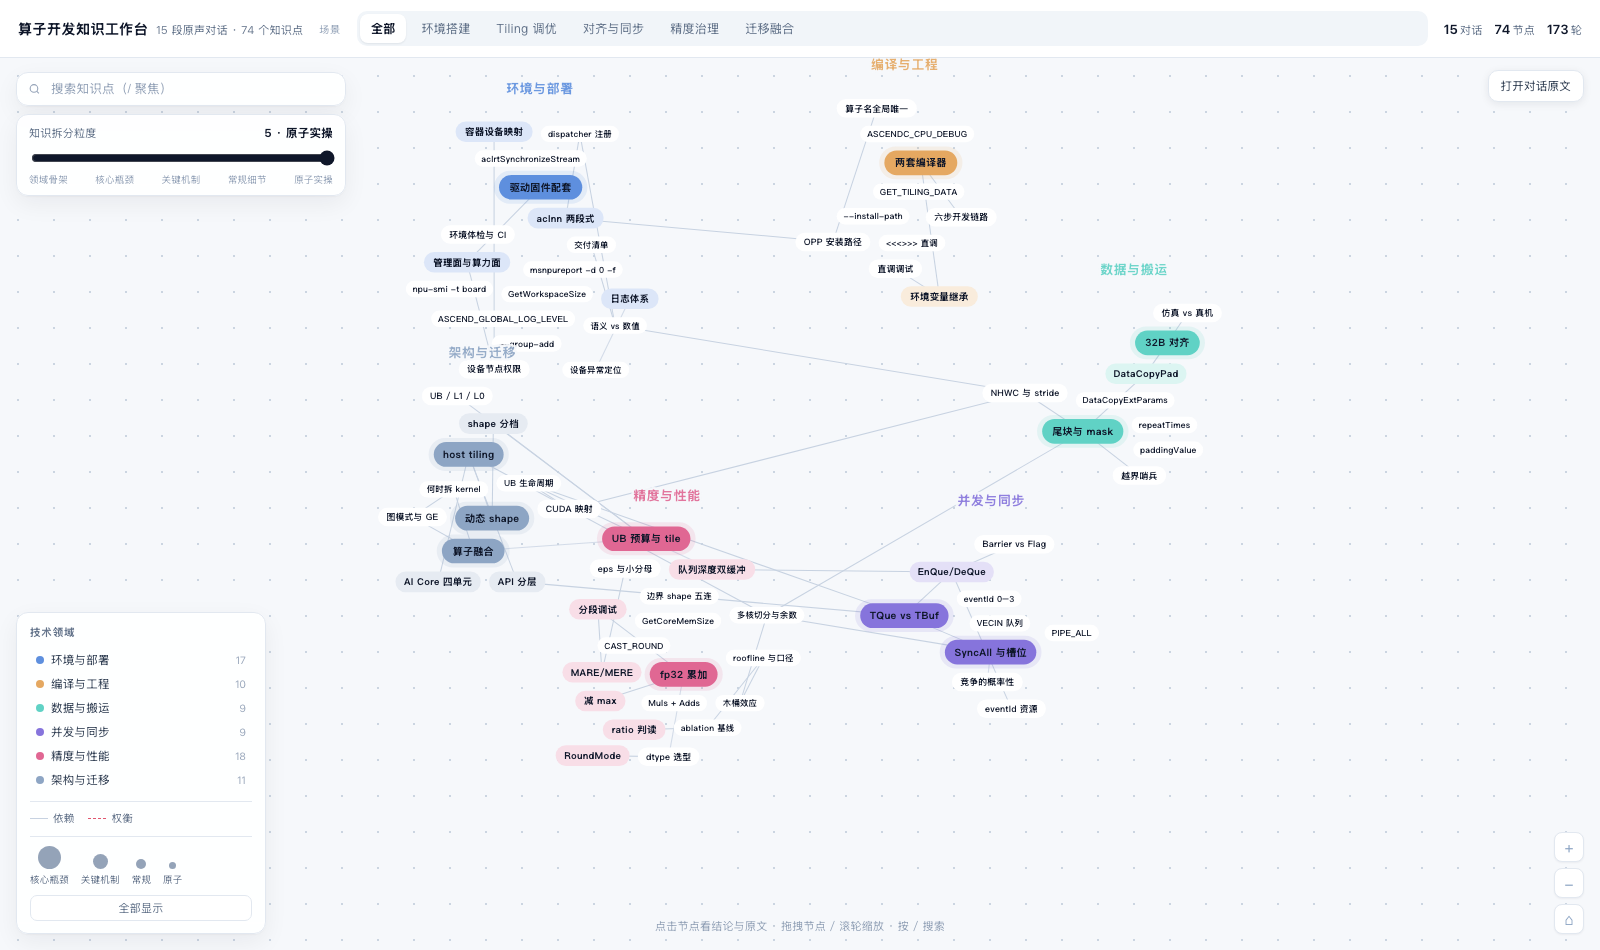
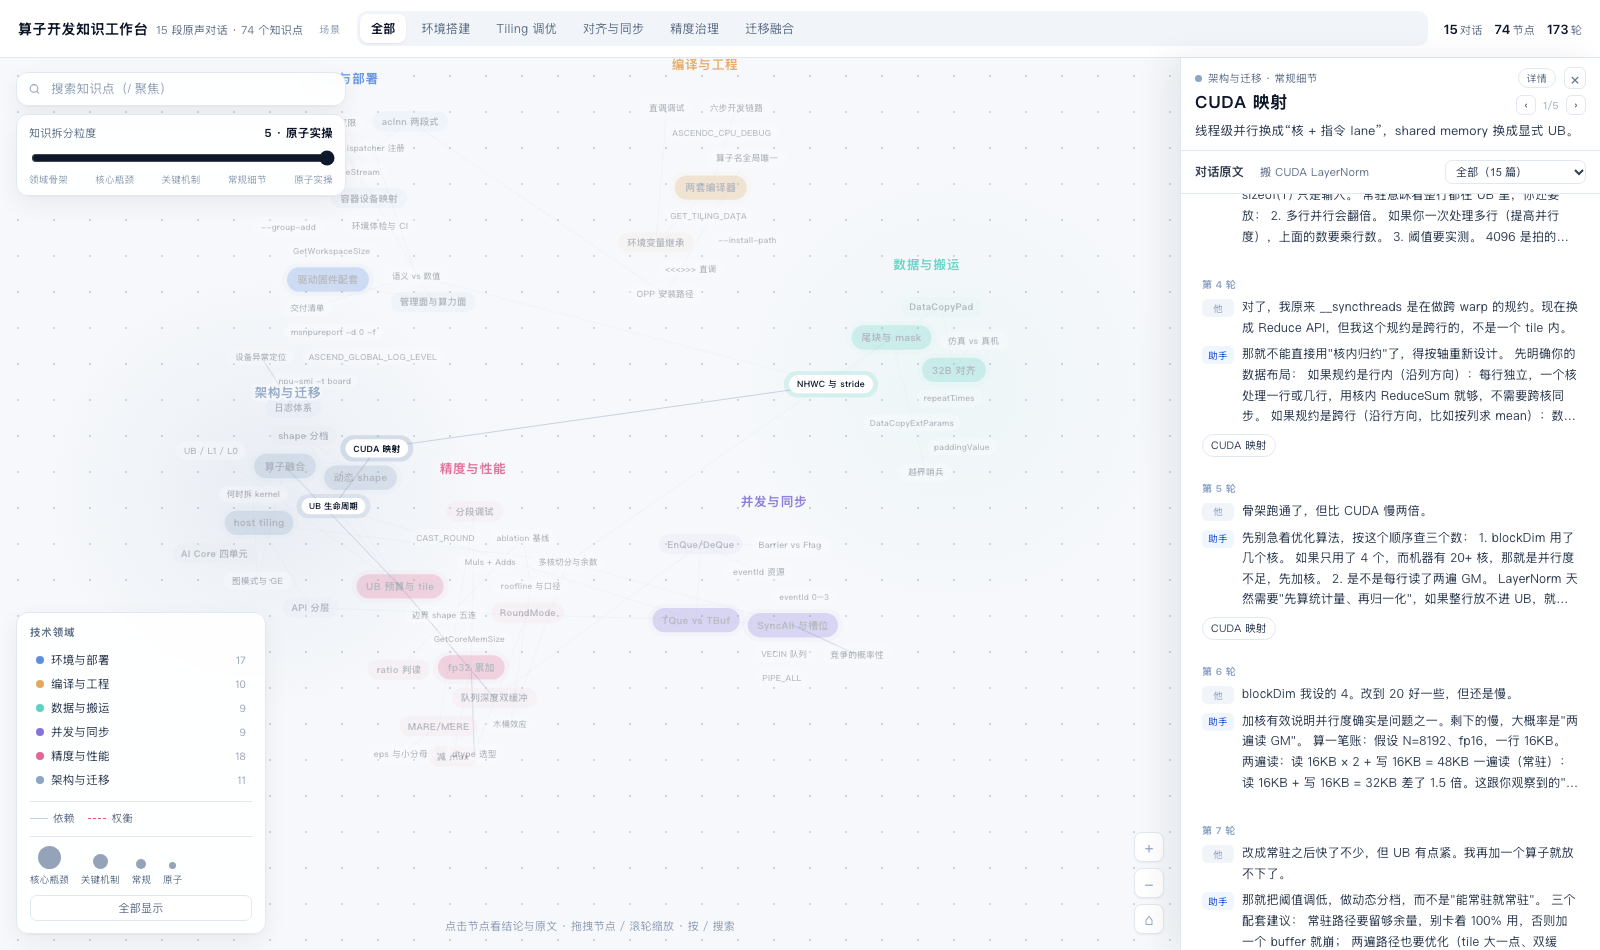
refactor: 移除吸顶分组条，改为标题栏面包屑 + 发丝分隔线

diff --git a/cann-dashboard/算子知识工作台.html b/cann-dashboard/算子知识工作台.html
@@ -173,12 +173,10 @@
   #stream{flex:1;overflow-y:auto;padding:6px 12px 40px}
 
   .grpw{position:relative}
-  .grp{position:sticky;top:-6px;z-index:3;display:flex;align-items:center;gap:6px;
-    margin:0 -6px 2px;padding:9px 12px 7px;background:#FFFFFF;
-    border-bottom:1px solid var(--line);box-shadow:0 -10px 0 #fff,0 3px 8px rgba(15,23,42,.05);
-    font-size:11px;color:#334155;font-weight:600}
-  .grp-n{color:#94A3B8;font-weight:500}
-  .grp-r{margin-left:auto;color:#94A3B8;font-weight:500;font-size:10px}
+  .grpdiv{height:1px;background:var(--line);margin:16px 8px 10px}
+  .grpw:first-child .grpdiv{display:none}
+  .crumb{flex:1;min-width:0;font-size:11px;color:#64748B;white-space:nowrap;overflow:hidden;
+    text-overflow:ellipsis;padding:0 8px;text-align:left}
   .round{padding:10px 8px;border-radius:10px;margin-bottom:2px;border:1px solid transparent}
   .round:hover{background:#FAFBFC}
   .round.pulse{animation:pulse 1.8s ease}
@@ -265,6 +263,7 @@
   <div id="insight"></div>
   <div class="stream-head">
     <div class="t">对话原文</div>
+    <div class="crumb" id="crumb">—</div>
     <select id="dlgFilter"></select>
   </div>
   <div id="stream"></div>
@@ -789,14 +788,11 @@ function renderStream(){
   let last=null, wrap=null;
   list.forEach(r=>{
     if(r.c!==last){
-      const total=ROUNDS.filter(x=>x.c===r.c).length;
       wrap=document.createElement('div');
-      wrap.className='grpw';
+      wrap.className='grpw'; wrap.dataset.c=r.c;
       frag.appendChild(wrap);
-      const h=document.createElement('div');
-      h.className='grp';
-      h.innerHTML=`${dlgByN[r.c].t}<span class="grp-r">1–${total} 轮</span>`;
-      wrap.appendChild(h); last=r.c;
+      const dv=document.createElement('div'); dv.className='grpdiv';
+      wrap.appendChild(dv); last=r.c;
     }
     const el=document.createElement('div');
     el.className='round'; el.id=`r-${r.c}-${r.r}`;
@@ -811,8 +807,26 @@ function renderStream(){
     wrap.appendChild(el);
   });
   box.appendChild(frag);
+  requestAnimationFrame(updateCrumb);
 }
 $('#dlgFilter').onchange=()=>renderStream();
+
+let crumbTick=false;
+function updateCrumb(){
+  const box=$('#stream'), el=$('#crumb');
+  if(!box||!el) return;
+  const wraps=[...box.querySelectorAll('.grpw')];
+  if(!wraps.length){ el.textContent='—'; return; }
+  const line=box.getBoundingClientRect().top+10;
+  let cur=wraps[0];
+  for(const w of wraps){ if(w.getBoundingClientRect().top<=line) cur=w; else break; }
+  const d=dlgByN[Number(cur.dataset.c)];
+  el.textContent=d?d.t:'—';
+}
+$('#stream').addEventListener('scroll',()=>{
+  if(crumbTick) return; crumbTick=true;
+  requestAnimationFrame(()=>{ updateCrumb(); crumbTick=false; });
+});
 
 function scrollToRound(c,t,pulse){
   const el=document.getElementById(`r-${c}-${t}`);
